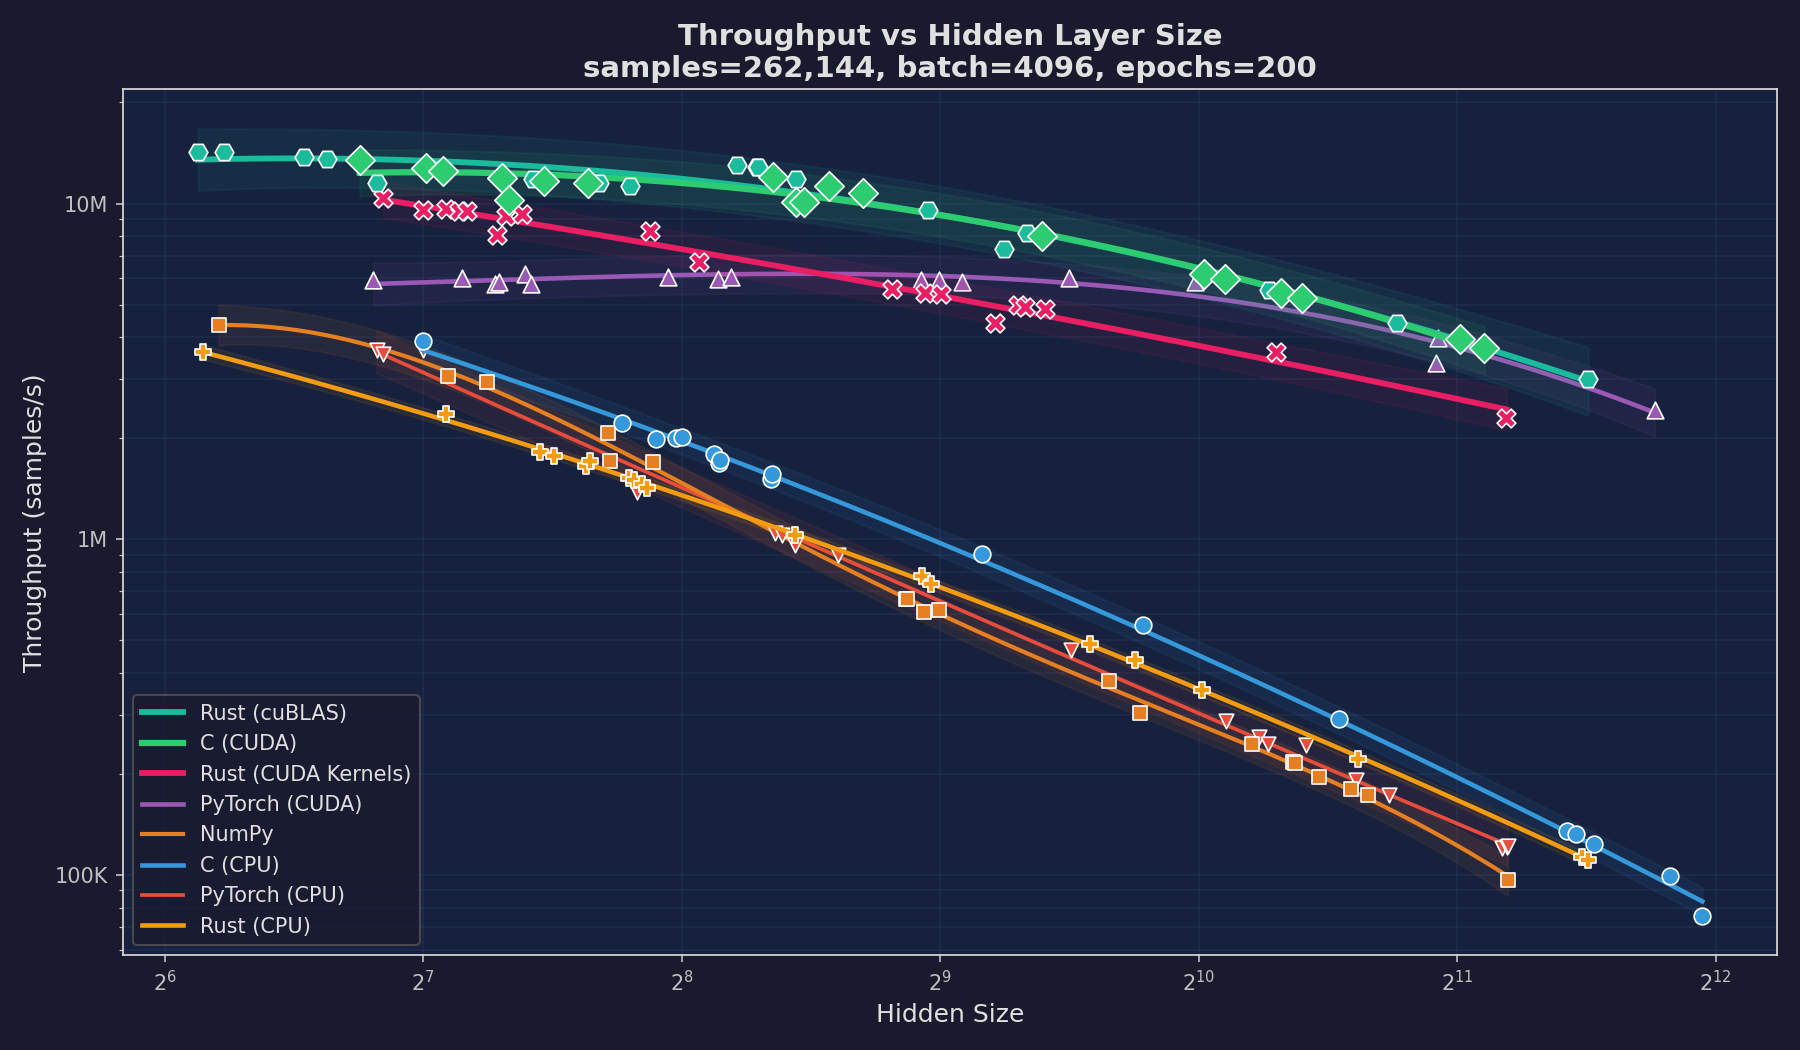
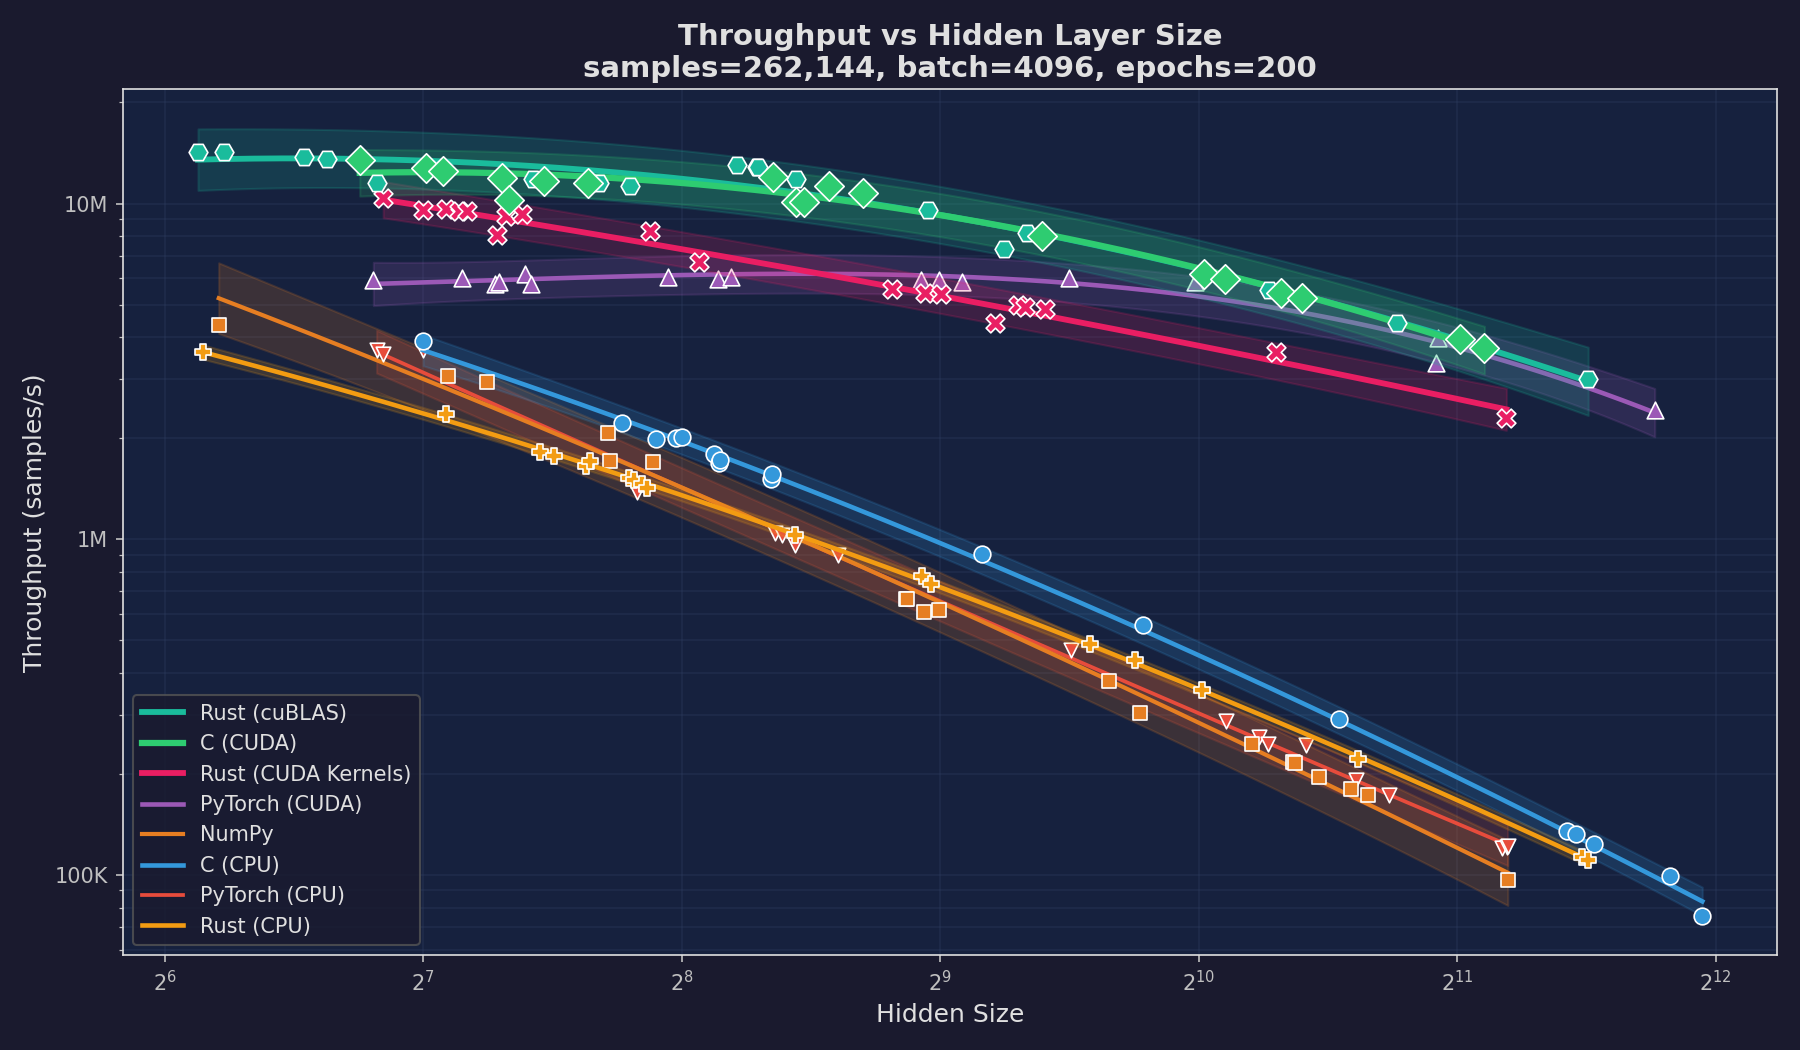
feat: GP confidence bands, overview speedup fix, updated analysis with overnight data

Changed region(s): [[0.1244, 0.2438, 0.84, 0.8533], [0.1867, 0.1219, 0.84, 0.3657], [0.5289, 0.2743, 0.5911, 0.3048]]

diff --git a/src/scripts/benchmark.py b/src/scripts/benchmark.py
@@ -439,7 +439,7 @@ def _plot_throughput(ax, xs, throughput_data, available_labels, title, xlabel,
                     linewidth=s["linewidth"], zorder=s["zorder"], label=label)
             # Confidence band
             ax.fill_between(x_dense, y_lower, y_upper,
-                            color=s["color"], alpha=0.08, zorder=s["zorder"] - 1)
+                            color=s["color"], alpha=0.18, zorder=s["zorder"] - 1)
             # Scatter for observed means
             ax.scatter(x_obs, y_obs_mean, marker=s["marker"], color=s["color"],
                        s=s["markersize"] ** 2, edgecolors="white", linewidths=0.8,
@@ -1156,7 +1156,7 @@ def run_scaling_experiment(available, runs, figs_dir, cfg, model="mlp",
             if sp_result is not None:
                 x_pts, sp_mean, sp_lower, sp_upper = sp_result
                 ax.plot(x_pts, sp_mean, color=color, linewidth=2.5, label=legend_name)
-                ax.fill_between(x_pts, sp_lower, sp_upper, color=color, alpha=0.10)
+                ax.fill_between(x_pts, sp_lower, sp_upper, color=color, alpha=0.20)
                 if yf:
                     ax.scatter(xf, yf, color=color, marker="o", s=64,
                                edgecolors="white", linewidths=0.8, zorder=10)
@@ -1210,18 +1210,13 @@ def run_scaling_experiment(available, runs, figs_dir, cfg, model="mlp",
                          "Batch Size Scaling (MNIST)", "Batch Size",
                          cache=cache, cache_key=_cache_key(model, "batch_size"))
 
+        bs_cache_key = _cache_key(model, "batch_size")
         for gpu_label, cpu_label, color, legend_name in speedup_pairs[:3]:
-            gpu_vals = tp_bs.get(gpu_label, [])
-            cpu_vals = tp_bs.get(cpu_label, [])
-            if not gpu_vals or not cpu_vals:
-                continue
-            xf, yf = [], []
-            for i in range(min(len(gpu_vals), len(cpu_vals))):
-                if gpu_vals[i] and cpu_vals[i] and cpu_vals[i] > 0:
-                    xf.append(batch_sizes[i])
-                    yf.append(gpu_vals[i] / cpu_vals[i])
-            if yf:
-                axes[1].plot(xf, yf, marker="o", color=color, linewidth=2.5, markersize=8, label=legend_name)
+            sp_result = _speedup_with_ci(cache, bs_cache_key, gpu_label, cpu_label) if cache else None
+            if sp_result is not None:
+                x_pts, sp_mean, sp_lower, sp_upper = sp_result
+                axes[1].plot(x_pts, sp_mean, color=color, linewidth=2.5, label=legend_name)
+                axes[1].fill_between(x_pts, sp_lower, sp_upper, color=color, alpha=0.15)
 
         axes[1].axhline(y=1.0, color="#e74c3c", linestyle="--", alpha=0.7, linewidth=1.5)
         axes[1].set_xscale("log", base=2)
@@ -1229,7 +1224,9 @@ def run_scaling_experiment(available, runs, figs_dir, cfg, model="mlp",
         axes[1].set_ylabel("Speedup (x)")
         axes[1].set_title("GPU Speedup vs Batch Size", fontweight="bold")
         axes[1].grid(True, which="both", alpha=0.3)
-        axes[1].legend(loc="best")
+        handles, leg_labels = axes[1].get_legend_handles_labels()
+        if handles:
+            axes[1].legend(loc="best")
 
         fig.suptitle("CNN Benchmark: GPU Scaling Analysis (LeNet-5 / MNIST)",
                       fontsize=18, fontweight="bold", y=0.98)
@@ -1257,18 +1254,13 @@ def run_scaling_experiment(available, runs, figs_dir, cfg, model="mlp",
                              f"Hidden Size Scaling (batch={fixed_bs})", "Hidden Size",
                              cache=cache, cache_key=_cache_key(model, "hidden_size"))
 
+            hs_cache_key = _cache_key(model, "hidden_size")
             for gpu_label, cpu_label, color, legend_name in speedup_pairs[:3]:
-                gpu_vals = tp_hs.get(gpu_label, [])
-                cpu_vals = tp_hs.get(cpu_label, [])
-                if not gpu_vals or not cpu_vals:
-                    continue
-                xf, yf = [], []
-                for i in range(min(len(gpu_vals), len(cpu_vals))):
-                    if gpu_vals[i] and cpu_vals[i] and cpu_vals[i] > 0:
-                        xf.append(hidden_sizes[i])
-                        yf.append(gpu_vals[i] / cpu_vals[i])
-                if yf:
-                    axes[1, 1].plot(xf, yf, marker="o", color=color, linewidth=2.5, markersize=8, label=legend_name)
+                sp_result = _speedup_with_ci(cache, hs_cache_key, gpu_label, cpu_label) if cache else None
+                if sp_result is not None:
+                    x_pts, sp_mean, sp_lower, sp_upper = sp_result
+                    axes[1, 1].plot(x_pts, sp_mean, color=color, linewidth=2.5, label=legend_name)
+                    axes[1, 1].fill_between(x_pts, sp_lower, sp_upper, color=color, alpha=0.15)
 
             axes[1, 1].axhline(y=1.0, color="#e74c3c", linestyle="--", alpha=0.7, linewidth=1.5)
             axes[1, 1].set_xscale("log", base=2)

diff --git a/README.md b/README.md
@@ -136,21 +136,30 @@ python3 src/scripts/benchmark.py --mode standard --datasets generated,iris,breas
 # MLP: scaling mode — throughput vs dataset size, batch size, and hidden size
 python3 src/scripts/benchmark.py --mode scaling --runs 1
 
+# MLP: budget mode — accumulate benchmark samples with variance-weighted scheduling
+# Runs can be repeated; results accumulate in figs/benchmark_cache.json
+python3 src/scripts/benchmark.py --mode scaling --budget 60   # 60 minutes
+
+# Replot from cached data without running any benchmarks
+python3 src/scripts/benchmark.py --mode scaling --budget 0
+
 # CNN: scaling mode — throughput vs batch size on MNIST
 python3 src/scripts/benchmark.py --mode scaling --model cnn --runs 1
 ```
 
 ## Scaling Benchmark Analysis
 
-All measurements were collected on an NVIDIA RTX 3070 (46 SMs, 5888 CUDA cores, 8 GB GDDR6) paired with an Intel Core i9-10900F (10 cores, 20 threads, 2.80 GHz). The benchmark sweeps three independent axes --- dataset size, mini-batch size, and hidden-layer width --- while holding the other two fixed. Each configuration trains the full MLP for 200 epochs and reports end-to-end throughput in samples per second. Implementations that exceeded the 600-second timeout at extreme scales are shown as missing data points. Run `python3 src/scripts/benchmark.py --mode scaling` to regenerate all plots.
+All measurements were collected on an NVIDIA RTX 3070 (46 SMs, 5888 CUDA cores, 8 GB GDDR6) paired with an Intel Core i9-10900F (10 cores, 20 threads, 2.80 GHz). The benchmark sweeps three independent axes --- dataset size, mini-batch size, and hidden-layer width --- while holding the other two fixed. Each configuration trains the full MLP for 200 epochs and reports end-to-end throughput in samples per second.
+
+Throughput curves are fitted using Gaussian Process regression in log-log space, with 95% confidence bands derived from the GP posterior. Data points are sampled from continuous log-uniform distributions (not a fixed grid) using a gap-filling strategy that ensures even coverage. Results accumulate across runs via `--budget`, and the variance-weighted scheduler prioritizes under-sampled regions. Run `python3 src/scripts/benchmark.py --mode scaling --budget 60` to extend the dataset, or `--budget 0` to replot from cache.
 
 ### Peak Throughput Summary
 
-| Experiment | Rust (cuBLAS) | C (CUDA) | PyTorch (CUDA) | Rust (Kernels) | C (CPU) | PyTorch (CPU) | NumPy | Rust (CPU) |
+| Experiment | C (CUDA) | Rust (cuBLAS) | PyTorch (CUDA) | Rust (Kernels) | C (CPU) | PyTorch (CPU) | NumPy | Rust (CPU) |
 |---|---|---|---|---|---|---|---|---|
-| Dataset Size | **9.99M** | 9.73M | 6.11M | 5.45M | 650K | 516K | 380K | 472K |
-| Batch Size | 10.24M | 10.19M | **13.00M** | 6.28M | 1.04M | 1.24M | 1.04M | 711K |
-| Hidden Size | **15.58M** | 15.52M | 6.82M | 11.41M | 6.81M | 4.45M | 4.73M | 4.00M |
+| Dataset Size | **9.90M** | 9.89M | 6.94M | 5.46M | 1.30M | 1.18M | 749K | 865K |
+| Batch Size | 9.77M | 10.08M | **12.76M** | 6.52M | 1.15M | 1.52M | 1.06M | 762K |
+| Hidden Size | 13.48M | **14.22M** | 6.19M | 10.41M | 3.89M | 3.66M | 4.34M | 3.61M |
 
 ---
 
@@ -160,15 +169,13 @@ Fixed parameters: batch\_size = 4096, hidden\_size = 512, epochs = 200.
 
 ![Throughput vs Dataset Size](figs/scaling_dataset_size.png)
 
-The dataset-size sweep shows that throughput is largely independent of dataset size for both CPU and GPU implementations. Both tiers maintain roughly constant throughput across two orders of magnitude (8K to 4M samples). The GPU implementations --- Rust cuBLAS, C CUDA, PyTorch CUDA, and Rust CUDA Kernels --- sustain approximately 5--10M samples/s throughout, with Rust cuBLAS and C CUDA at the top (~10M) and PyTorch CUDA consistently lower (~6M), the gap attributable to Python dispatch overhead and autograd bookkeeping. The CPU implementations cluster between 100K and 1M samples/s, also largely flat across the sweep.
+The dataset-size sweep shows that throughput is largely independent of dataset size for both CPU and GPU implementations. Both tiers maintain roughly constant throughput across two orders of magnitude (8K to 4M samples). The GPU implementations --- C CUDA, Rust cuBLAS, PyTorch CUDA, and Rust CUDA Kernels --- sustain approximately 5--10M samples/s throughout, with C CUDA and Rust cuBLAS at the top (~10M) and PyTorch CUDA consistently lower (~7M), the gap attributable to Python dispatch overhead and autograd bookkeeping. The CPU implementations cluster between 700K and 1.3M samples/s, also largely flat across the sweep.
 
-This flat scaling is expected: with a fixed batch size of 4096, each mini-batch GEMM has the same dimensions regardless of how many total samples exist. More data simply means more mini-batches per epoch, and throughput (samples per second) stays constant because the per-batch cost is unchanged. The Rust (CPU) implementation shows an anomalous dip around 262K samples that is likely a bug in that specific implementation rather than a fundamental CPU limitation.
-
-At the extreme end (2M--4M samples), some CPU implementations begin timing out (exceeding the 600-second limit) simply because constant throughput over a much larger dataset takes proportionally longer wall time.
+This flat scaling is expected: with a fixed batch size of 4096, each mini-batch GEMM has the same dimensions regardless of how many total samples exist. More data simply means more mini-batches per epoch, and throughput (samples per second) stays constant because the per-batch cost is unchanged.
 
 ![GPU Speedup vs Dataset Size](figs/gpu_speedup_dataset_size.png)
 
-The GPU speedup plot shows a roughly constant ratio across dataset sizes --- typically 10--25x depending on the pair --- confirming that the GPU advantage comes from faster per-batch computation, not from better scaling behavior. The speedup ratios are noisier at small dataset sizes due to measurement variance when runtimes are short. The Rust cuBLAS / C CUDA ratio (orange line) hovers near 1.0x throughout, confirming that the Rust FFI bindings to cuBLAS introduce negligible overhead compared to calling CUDA APIs directly from C.
+The GPU speedup plot shows a roughly constant ratio across dataset sizes --- typically 5--15x depending on the pair --- confirming that the GPU advantage comes from faster per-batch computation, not from better scaling behavior. The confidence bands are wider at the extremes of the range where fewer data points constrain the GP fit. The Rust cuBLAS / C CUDA ratio (orange line) hovers near 1.0x throughout, confirming that the Rust FFI bindings to cuBLAS introduce negligible overhead compared to calling CUDA APIs directly from C.
 
 ---
 
@@ -180,13 +187,13 @@ Fixed parameters: num\_samples = 262,144, hidden\_size = 512, epochs = 200.
 
 Batch size is the primary lever for GPU utilization because it determines how many threads can execute in parallel during a single GEMM call. The RTX 3070 has 46 streaming multiprocessors, each capable of scheduling up to 2048 threads, for a total of approximately 94K concurrent threads at full occupancy. A batch size of 256 produces GEMM dimensions of (256 x 512) and (512 x 512) --- enough work to partially fill the GPU, but not enough to fully hide memory latency through thread-level parallelism.
 
-The GPU throughput curves rise steeply from batch size 256 through 4096, with each doubling of batch size yielding a near-proportional throughput increase. PyTorch CUDA demonstrates the most dramatic scaling in this regime, climbing from roughly 2M samples/s at batch 256 to 13M samples/s at batch 32K --- making it the overall winner for this experiment. PyTorch's batched tensor operations benefit particularly from large batch sizes because the relative cost of its Python-level dispatch and autograd graph construction decreases as more computation is packed into each kernel launch. Rust cuBLAS and C CUDA track each other closely, both reaching approximately 10.2M samples/s at the largest batch sizes.
+The GPU throughput curves rise steeply from batch size 256 through 4096, with each doubling of batch size yielding a near-proportional throughput increase. PyTorch CUDA demonstrates the most dramatic scaling, climbing to 12.8M samples/s at the largest batch sizes --- making it the overall winner for this experiment. PyTorch's batched tensor operations benefit particularly from large batch sizes because the relative cost of its Python-level dispatch and autograd graph construction decreases as more computation is packed into each kernel launch. Rust cuBLAS and C CUDA track each other closely, both reaching approximately 10M samples/s. The custom CUDA kernel implementation (Rust CUDA Kernels) shows steadier growth, reaching 6.5M samples/s --- its shared-memory tiled matmul (TILE\_DIM=16) is less optimized than cuBLAS's auto-tuned kernels but still benefits cleanly from increased parallelism.
 
-The CPU implementations exhibit a different pattern. Throughput initially increases with batch size --- larger batches improve data locality in the tiled GEMM, reduce per-batch loop overhead, and allow OpenMP/Rayon thread pools to amortize scheduling costs. However, beyond batch sizes of 1024--2048, CPU throughput peaks and then declines. C (CPU), NumPy, and PyTorch (CPU) all show a moderate decline at the largest batch sizes, likely caused by increased memory pressure: a (32768 x 512) batch matrix occupies 64 MB in single precision, exceeding L3 cache capacity and forcing the tiled GEMM to spill to main memory on every tile access. Rust (CPU) suffers the steepest decline of any CPU implementation, dropping well below the others at large batch sizes --- this is consistent with the GEMM performance issues discussed in the dataset-size section and suggests the Rust CPU tiling strategy handles large matrices less efficiently than C's OpenMP-parallelized equivalent. The custom CUDA kernel implementation (Rust CUDA Kernels) shows steadier growth than the cuBLAS paths, reaching 6.3M samples/s --- its shared-memory tiled matmul (TILE\_DIM=16) is less optimized than cuBLAS's auto-tuned kernels but still benefits cleanly from increased parallelism.
+The CPU implementations exhibit a different pattern. Throughput initially increases with batch size --- larger batches improve data locality in the tiled GEMM, reduce per-batch loop overhead, and allow OpenMP/Rayon thread pools to amortize scheduling costs. However, beyond batch sizes of 1024--2048, CPU throughput peaks and then declines. This is likely caused by increased memory pressure: large batch matrices exceed L3 cache capacity, forcing the tiled GEMM to spill to main memory on every tile access. Rust (CPU) suffers the steepest decline of any CPU implementation at large batch sizes, suggesting the Rust CPU tiling strategy handles large matrices less efficiently than C's OpenMP-parallelized equivalent.
 
 ![GPU Speedup vs Batch Size](figs/gpu_speedup_batch_size.png)
 
-The batch-size speedup plot illustrates a textbook GPU scaling curve. At batch size 256, GPU speedup over the corresponding CPU implementation ranges from 3--8x. By batch size 32K, the ratios reach 20--35x across most pairs. This monotonic increase demonstrates that GPUs are fundamentally throughput machines: they need large amounts of data-parallel work to justify the fixed costs of kernel launches and memory transfers. The Rust cuBLAS / C CUDA ratio remains flat near 1.0x, once again confirming zero FFI overhead in the hot path.
+The batch-size speedup plot illustrates a textbook GPU scaling curve. At batch size 256, GPU speedup over the corresponding CPU implementation ranges from 5--10x. By the largest batch sizes, the ratios reach 20--35x across most pairs. This monotonic increase demonstrates that GPUs are fundamentally throughput machines: they need large amounts of data-parallel work to justify the fixed costs of kernel launches and memory transfers. The Rust cuBLAS / C CUDA ratio remains flat near 1.0x, once again confirming zero FFI overhead in the hot path.
 
 ---
 
@@ -198,17 +205,15 @@ Fixed parameters: num\_samples = 262,144, batch\_size = 4096, epochs = 200.
 
 The hidden-size sweep is the most revealing experiment because it directly controls the arithmetic intensity of the workload. The dominant GEMM operations have dimensions (batch x hidden) and (hidden x hidden), so FLOPs per sample scale as O(hidden^2). This makes hidden-size scaling the clearest test of compute-bound versus memory-bound behavior.
 
-At hidden size 64, the computation per sample is trivial --- a (4096 x 64) matrix multiply requires only 0.5M FLOPs. All implementations cluster between 3M and 15M samples/s, and the CPU implementations are competitive because the tiny weight matrices fit entirely in L1 cache. C CPU achieves 6.8M samples/s, within striking distance of the GPU implementations. This is the memory-bound regime: the GPU's massive compute throughput goes largely unused because the matrices are too small to saturate the arithmetic pipelines.
+At small hidden sizes (~64), the computation per sample is trivial --- a (4096 x 64) matrix multiply requires only 0.5M FLOPs. All implementations cluster between 3M and 15M samples/s, and the CPU implementations are competitive because the tiny weight matrices fit entirely in L1 cache. This is the memory-bound regime: the GPU's massive compute throughput goes largely unused because the matrices are too small to saturate the arithmetic pipelines.
 
-As hidden size increases to 256 and beyond, the GPU implementations pull away dramatically. Rust cuBLAS and C CUDA maintain remarkably high throughput even at hidden size 2048, where each forward-backward pass involves (4096 x 2048) and (2048 x 2048) matrix multiplications --- workloads that perfectly match cuBLAS's optimized tiling strategies. At hidden size 2048, Rust cuBLAS peaks at 15.6M samples/s and C CUDA at 15.5M samples/s. The custom Rust CUDA kernels achieve 11.4M samples/s --- impressive for hand-written shared-memory kernels, but roughly 27% below cuBLAS, reflecting the gap between a 16x16 fixed tile size and cuBLAS's auto-tuned tile dimensions that adapt to the matrix shape.
+As hidden size increases to 256 and beyond, the GPU implementations pull away dramatically. Rust cuBLAS and C CUDA maintain remarkably high throughput, with Rust cuBLAS peaking at 14.2M samples/s and C CUDA at 13.5M samples/s. The custom Rust CUDA kernels achieve 10.4M samples/s --- impressive for hand-written shared-memory kernels, but roughly 27% below cuBLAS, reflecting the gap between a 16x16 fixed tile size and cuBLAS's auto-tuned tile dimensions that adapt to the matrix shape.
 
-The CPU implementations suffer severely at large hidden sizes. With hidden size 4096, the weight matrices alone occupy (4096 x 4096 x 4 bytes) = 64 MB per layer --- far exceeding any CPU cache. Every tile access in the GEMM results in cache misses to main memory, and the O(hidden^2) compute ensures that even OpenMP parallelism cannot compensate. Among the CPU implementations, Rust (CPU) is consistently the slowest across all hidden sizes, trailing C (CPU) by a noticeable margin --- the same GEMM efficiency gap observed in the batch-size experiment. All four CPU implementations (C, Rust, NumPy, PyTorch) time out at hidden size 4096, unable to complete 200 epochs within the 600-second budget.
+The CPU implementations suffer severely at large hidden sizes. Large weight matrices far exceed CPU cache capacity, and the O(hidden^2) compute ensures that even OpenMP parallelism cannot compensate. All four CPU implementations converge toward similar throughput at the largest hidden sizes, with Rust (CPU) consistently the slowest --- the same GEMM efficiency gap observed in the batch-size experiment.
 
 ![GPU Speedup vs Hidden Size](figs/gpu_speedup_hidden_size.png)
 
-The hidden-size speedup plot shows the most dramatic GPU advantage of any experiment. At hidden size 64, speedups are modest (2--4x), reflecting the kernel launch overhead on small matrices. By hidden size 2048, the C CUDA / C CPU ratio exceeds 33x. The curve is super-linear in hidden size because the GPU's throughput degrades more slowly than the CPU's --- the GPU has enough on-chip SRAM (shared memory plus register file) to tile large matrix multiplies efficiently, while the CPU's cache hierarchy is overwhelmed. The Rust cuBLAS / Rust CPU and Rust Kernels / Rust CPU curves demonstrate that the GPU advantage is not language-dependent but architecture-dependent: the same Rust codebase shows a 21--33x speedup simply by switching the GEMM backend from CPU tiling to GPU execution.
-
-At hidden size 4096, CPU implementations timed out, so speedup ratios could not be computed for that data point --- but the trend is unambiguous. For compute-bound MLP training at realistic hidden layer widths, GPU acceleration delivers one to two orders of magnitude improvement.
+The hidden-size speedup plot shows the most dramatic GPU advantage of any experiment. At small hidden sizes, speedups are modest (2--4x), reflecting the kernel launch overhead on small matrices. As hidden size grows, the speedup curves rise super-linearly because the GPU's throughput degrades more slowly than the CPU's --- the GPU has enough on-chip SRAM (shared memory plus register file) to tile large matrix multiplies efficiently, while the CPU's cache hierarchy is overwhelmed. The Rust Kernels / Rust CPU curve demonstrates that the GPU advantage is architecture-dependent, not language-dependent: the same Rust codebase shows an order-of-magnitude speedup simply by switching the GEMM backend from CPU tiling to GPU execution.
 
 ---
 
